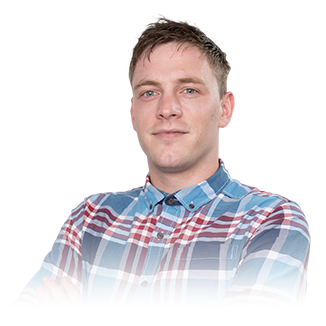
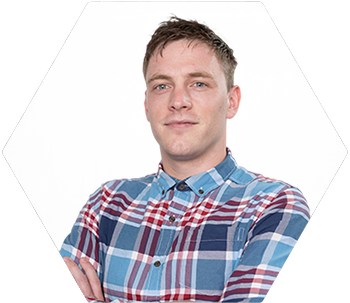
Changes to about page

diff --git a/about.html b/about.html
@@ -42,37 +42,86 @@
   </nav>
 
 
-<div class="container-fluid particles-container">
-  <div id="particles-js"></div>
-  <div class="container-fluid">
-    <div class="container">
-      <div class="row">
-        <div class="col-sm">
-          <h2>About Me</h2>
-          <img src="img/jaimie.png" alt="Me!" />
-        </div>
-        <div class="col-sm">
-          <h3>Work Experience</h3>
-          <p>I have several years worth of experience building websites in an ASP.NET environment using MySQL, HTML, CSS and Javascript along with various frameworks.</p>
-          <ul>
-            <li>
-              <h4>UpriseVSI</h4>
-              <p>June 2018 - Present</p>
-            </li>
-            <li>
-              <h4>IT Pie</h4>
-              <p>July 2016 - June 2018</p>
-            </li>
-            <li>
-              <h4>Freelance</h4>
-              <p>December 2015 - July 2016</p>
-            </li>
-          </ul>
+  <div class="container-fluid particles-container">
+    <div id="particles-js"></div>
+    <div class="container-fluid">
+      <div class="container">
+        <div class="row">
+          <div class="col-sm">
+            <h2>About Me</h2>
+            <img src="img/jaimie.png" alt="Me!" />
+          </div>
+          <div class="col-sm">
+            <h3>Work Experience</h3>
+            <p>I have several years worth of experience building websites in an ASP.NET environment using MySQL, HTML, CSS and Javascript along with various frameworks.</p>
+            <ul>
+              <li>
+                <h4>UpriseVSI</h4>
+                <p>June 2018 - Present</p>
+              </li>
+              <li>
+                <h4>IT Pie</h4>
+                <p>July 2016 - June 2018</p>
+              </li>
+              <li>
+                <h4>Freelance</h4>
+                <p>December 2015 - July 2016</p>
+              </li>
+            </ul>
+          </div>
         </div>
       </div>
     </div>
   </div>
-</div>
+
+  <div class="focus container">
+    <div class="row">
+      <div class="col-sm-6 col-md-3">
+        <div class="hex-wrap">
+          <div class="hexagon">
+            <i class="fas fa-fighter-jet"></i>
+          </div>
+        </div>
+        <div class="desc">          
+          <h2>Fast</h2>
+          <p>Fast load times and responsive interactions are my highest priority.</p>
+        </div>
+      </div>
+      <div class="col-sm-6 col-md-3">
+        <div class="hex-wrap">
+          <div class="hexagon">
+            <i class="fas fa-mobile-alt"></i>
+          </div>
+        </div>
+        <div class="desc">          
+          <h2>Responsive</h2>
+          <p>Everything I develop is done in a way that it displays correctly on any device.</p>
+        </div>
+      </div>
+      <div class="col-sm-6 col-md-3">
+        <div class="hex-wrap">
+          <div class="hexagon">
+            <i class="fas fa-lightbulb"></i>
+          </div>
+        </div>
+        <div class="desc">          
+          <h2>Intuitive</h2>
+          <p>Strong preference for easy to use, intuitive UX/UI.</p>
+        </div>
+      </div>
+      <div class="col-sm-6 col-md-3">
+        <div class="hex-wrap">
+          <div class="hexagon">
+            <i class="fas fa-rocket"></i>
+          </div>
+        </div>
+        <div class="desc">          
+          <h2>Dynamic</h2>
+          <p>I love making pages come to life wih interactive elements.</p>
+        </div>
+      </div>
+    </div>
+  </div>
   
 
 

diff --git a/css/main.css b/css/main.css
@@ -515,8 +515,9 @@ canvas{
 }
 
 .particles-container {
-    padding: 0;
+    padding: 50px 0;
     position: relative;
+    overflow:hidden;
 }
 
 .particles-container .container-fluid {
@@ -525,6 +526,7 @@ canvas{
     pointer-events: none;
 }
 
+.particles-container h2,
 .particles-container h3 {
     padding-bottom: 25px;
 }
@@ -537,7 +539,73 @@ canvas{
     color: #fff;
 }
 
+.focus {
+    padding: 100px 0;
+    overflow:hidden;
+}
 
+.hex-wrap {
+    height: 100px;
+    width: 100px;
+    display: block;
+    margin: 0 auto;
+    text-align: center;
+}
+
+.hexagon {
+    background-color: #222;
+    height: 100px;
+    width: 60px;
+    display: inline-block;
+    text-align: center;
+    position: relative;
+    display: flex;
+    flex-wrap: wrap;
+    flex-direction: column;
+    justify-content: center;
+    margin: 0 auto;
+}
+
+.hexagon::before {
+    position: absolute;
+    top: 0;
+    right: 0;
+    background-color: inherit;
+    height: 100px;
+    width: inherit;
+    content: '';
+    transform: rotateZ(60deg);
+    z-index: -1;
+}
+
+.hexagon::after {
+    position: absolute;
+    top: 0;
+    right: 0;
+    background-color: inherit;
+    height: 100px;
+    width: inherit;
+    content: '';
+    transform: rotateZ(-60deg);
+    z-index: -1;
+}
+
+.hexagon i {
+    color: #fff;
+    font-size: 3em;
+}
+
+.focus .desc {
+    text-align:center;
+}
+
+.focus .desc h2 {
+    padding: 15px 0 5px 0;
+}
+
+.focus .desc p {
+    padding: 0 15px;
+}
 
 /* ==========================================================================
    Helper classes
